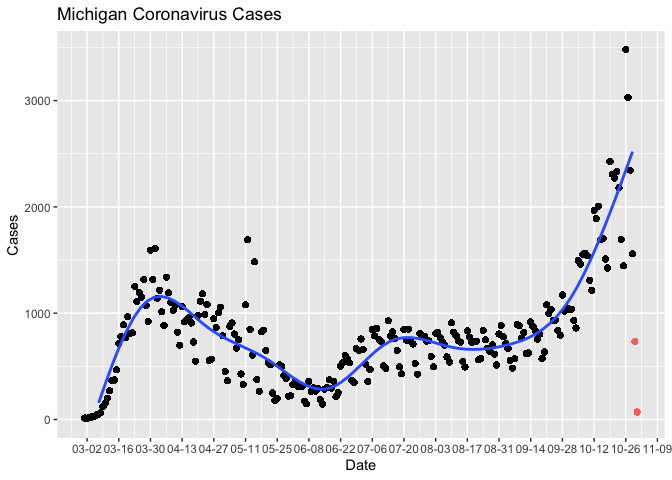
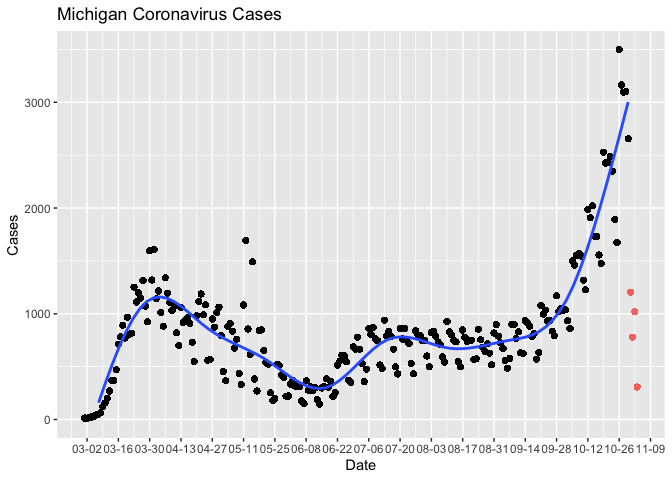
11-03-2020 update

diff --git a/MiCorona.md b/MiCorona.md
@@ -1,12 +1,12 @@
 Michigan COVID Data
 ================
 Adam D. DenHaan
-Nov 02, 2020
+Nov 04, 2020
 
 Read in data:
 
 ``` r
-link = "https://www.michigan.gov/documents/coronavirus/Cases_and_Deaths_by_County_and_by_Date_of_Symptom_Onset_or_by_Date_of_Death2020-10-31_706668_7.xlsx"
+link = "https://www.michigan.gov/documents/coronavirus/Cases_and_Deaths_by_County_and_by_Date_of_Symptom_Onset_or_by_Date_of_Death2020-11-03_706790_7.xlsx"
 download.file(link, destfile = "/tmp/file.xlsx")
 
 mi_data = readxl::read_excel("/tmp/file.xlsx")
@@ -39,7 +39,7 @@ mi_cases_by_day = mi_data %>%
 # linkdate <- as.Date(strsplit(link, "_")[[1]][16])
 # linkandnowdiff <- day(now()) - day(linkdate)
 
-day_split = 4
+day_split = 5
 
 mi_cases_by_day_exclusive <- mi_cases_by_day %>%
   filter(                                   #most recent data is often inaccurate and revised
@@ -76,5 +76,5 @@ mi_cases_by_day_exclusive %>%
 
 ![](MiCorona_files/figure-gfm/viz-1.png)<!-- -->
 
-Note that the last 2 days of data have been colored red on the graph, as
+Note that the last 4 days of data have been colored red on the graph, as
 they frequently change as more information becomes available.
